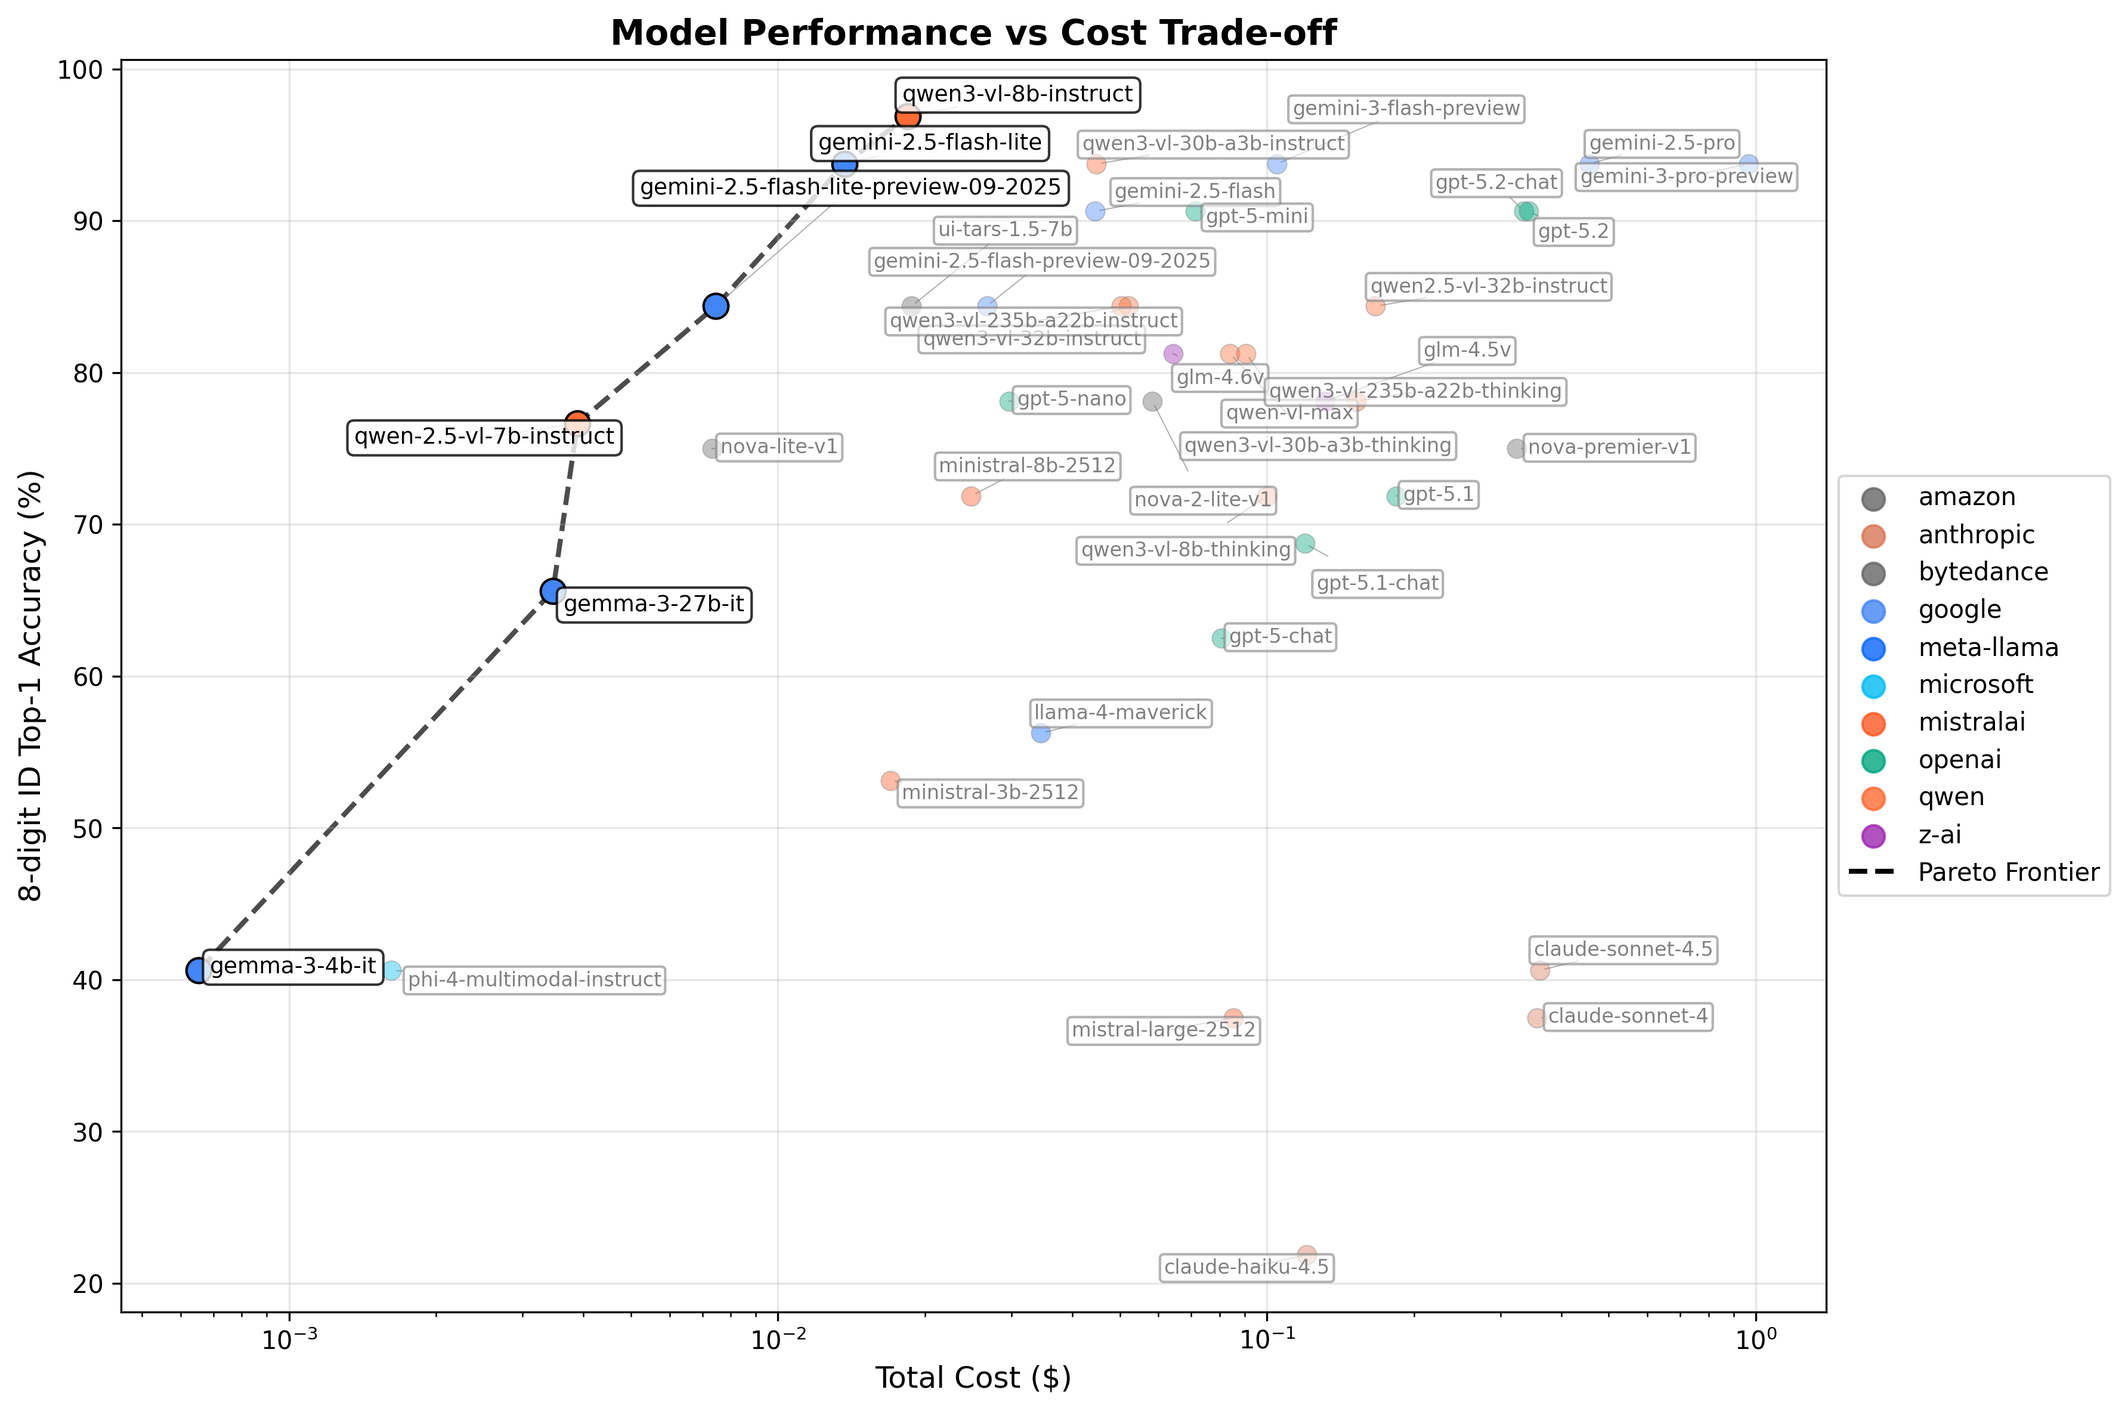
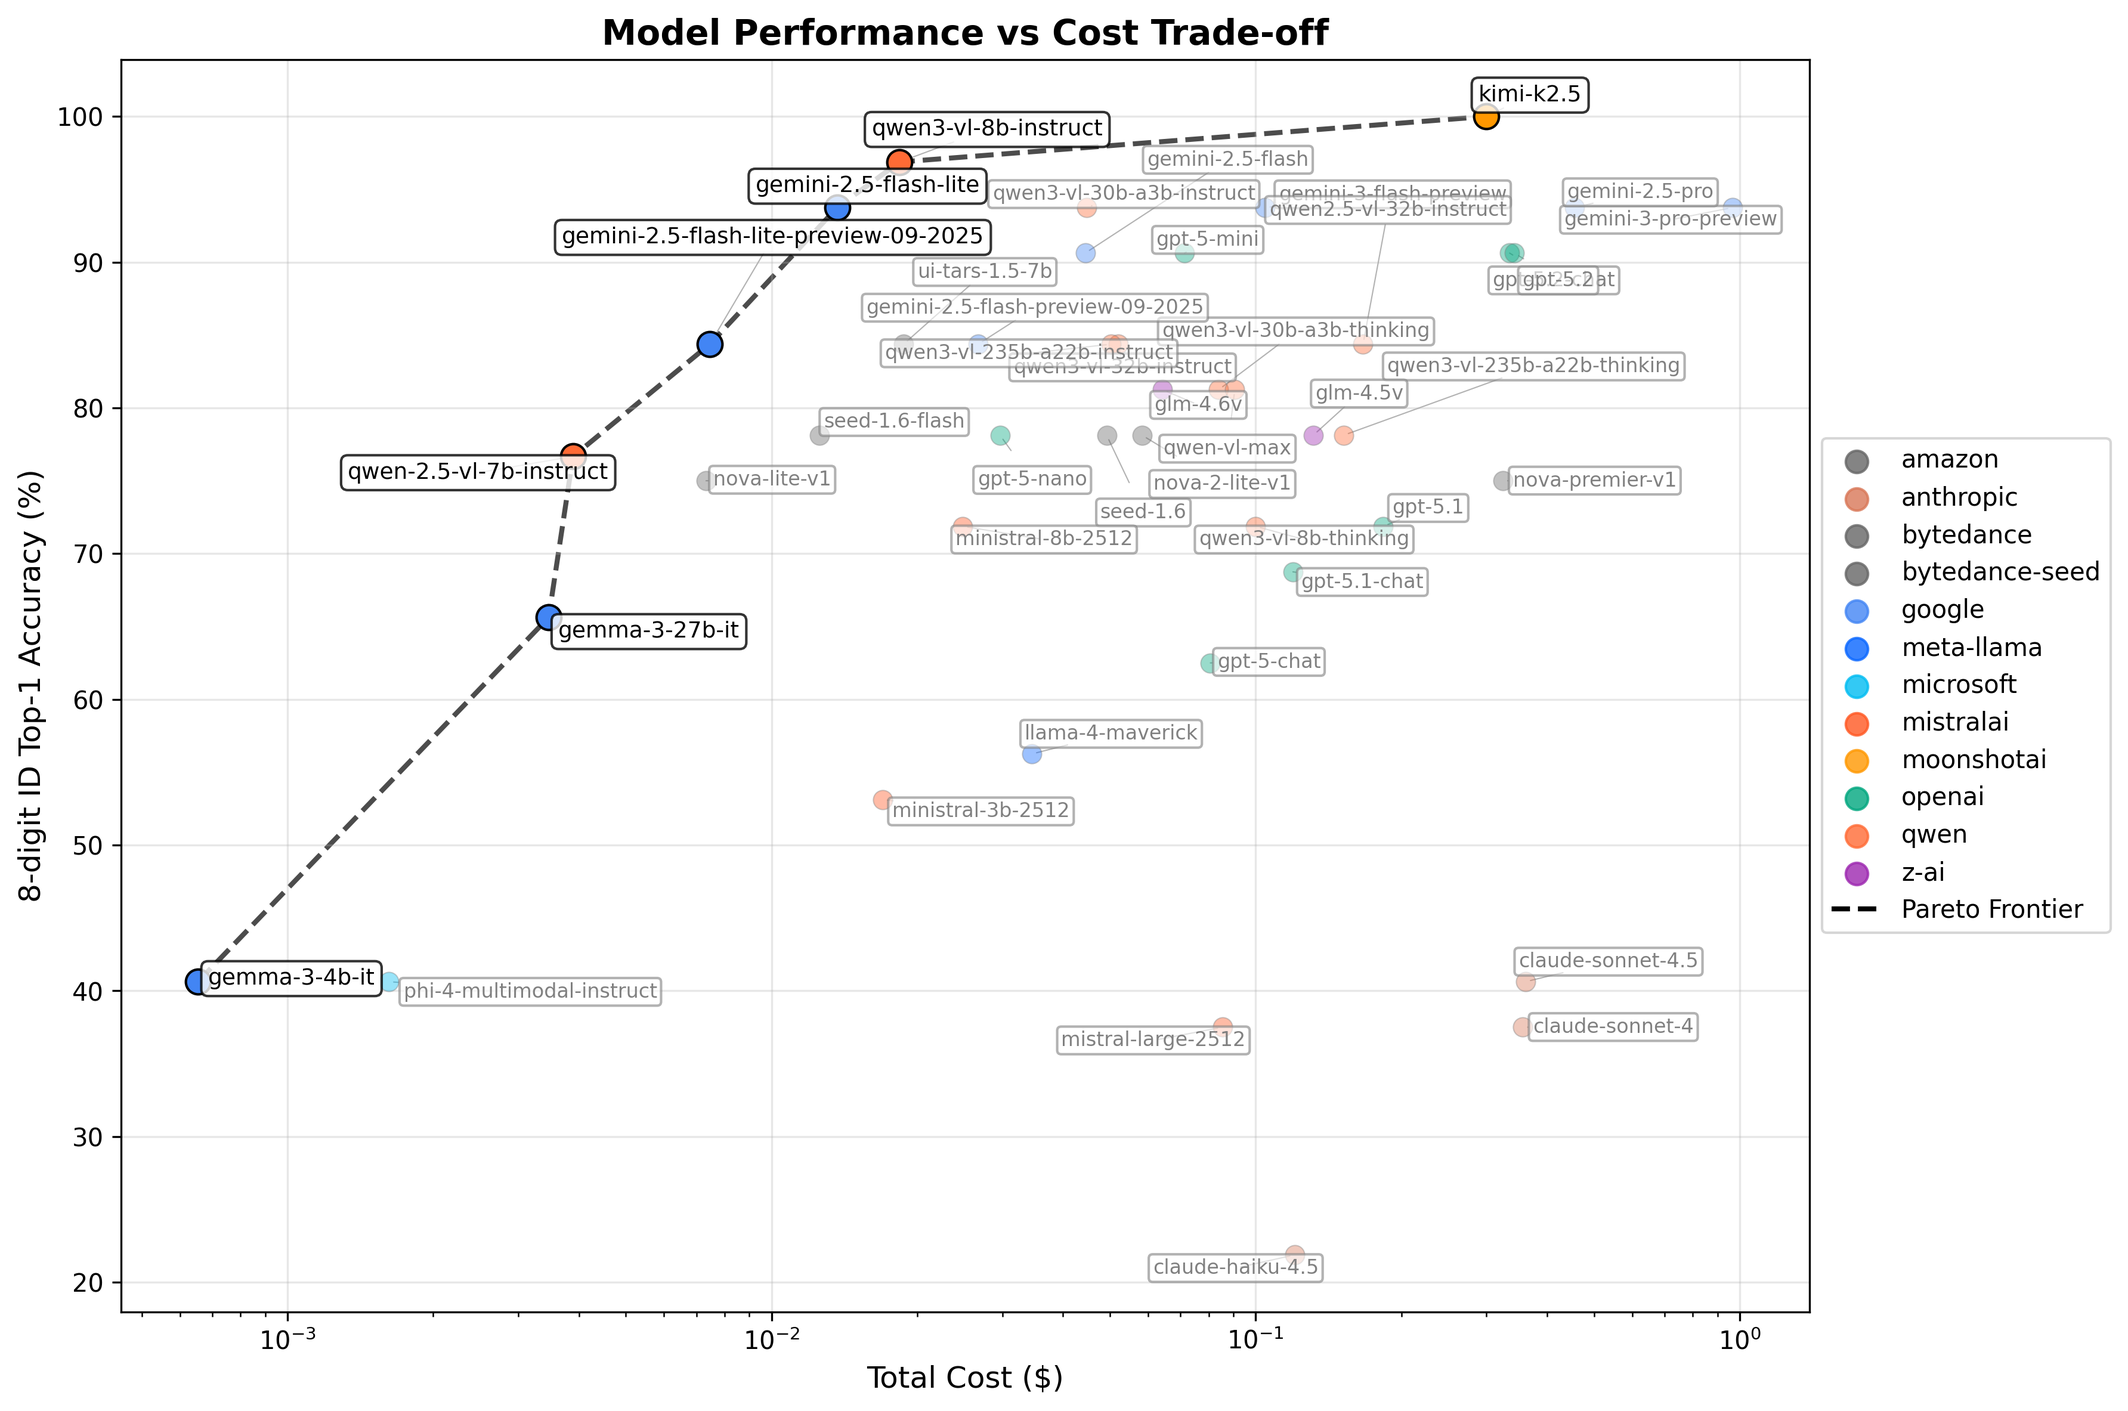
Update benchmark results and model metadata; add new models including moonshotai/kimi-k2.5 and bytedance-seed/seed-1.6, and adjust performance metrics in README and BENCHMARKS.md

diff --git a/BENCHMARKS.md b/BENCHMARKS.md
@@ -34,16 +34,16 @@ All VLM runs use the following consistent configuration:
 ## Complete Results
 
 
-| **Metric** | **OpenCV+CNN** | **google**<br>gemini-3-flash-preview | **google**<br>gemini-3-pro-preview | **google**<br>gemini-2.5-flash-preview-09-2025 | **google**<br>gemini-2.5-flash-lite-preview-09-2025 | **google**<br>gemini-2.5-pro | **google**<br>gemini-2.5-flash-lite | **google**<br>gemma-3-27b-it | **google**<br>gemma-3-4b-it | **google**<br>gemini-2.5-flash | **mistralai**<br>ministral-8b-2512 | **mistralai**<br>ministral-3b-2512 | **mistralai**<br>mistral-large-2512 | **openai**<br>gpt-5.2-chat | **openai**<br>gpt-5.2 | **openai**<br>gpt-5.1-chat | **openai**<br>gpt-5.1 | **openai**<br>gpt-5-chat | **openai**<br>gpt-5-mini | **openai**<br>gpt-5-nano | **amazon**<br>nova-2-lite-v1 | **amazon**<br>nova-premier-v1 | **amazon**<br>nova-lite-v1 | **z-ai**<br>glm-4.6v | **z-ai**<br>glm-4.5v | **nvidia**<br>nemotron-nano-12b-v2-vl:free | **qwen**<br>qwen3-vl-32b-instruct | **qwen**<br>qwen3-vl-8b-thinking | **qwen**<br>qwen3-vl-8b-instruct | **qwen**<br>qwen3-vl-30b-a3b-instruct | **qwen**<br>qwen3-vl-30b-a3b-thinking | **qwen**<br>qwen-vl-max | **qwen**<br>qwen3-vl-235b-a22b-thinking | **qwen**<br>qwen3-vl-235b-a22b-instruct | **qwen**<br>qwen-2.5-vl-7b-instruct | **qwen**<br>qwen2.5-vl-32b-instruct | **anthropic**<br>claude-haiku-4.5 | **anthropic**<br>claude-sonnet-4.5 | **anthropic**<br>claude-sonnet-4 | **microsoft**<br>phi-4-multimodal-instruct | **bytedance**<br>ui-tars-1.5-7b | **meta-llama**<br>llama-4-maverick | **moonshotai**<br>kimi-vl-a3b-thinking:free |
-|:---|:---|:---|:---|:---|:---|:---|:---|:---|:---|:---|:---|:---|:---|:---|:---|:---|:---|:---|:---|:---|:---|:---|:---|:---|:---|:---|:---|:---|:---|:---|:---|:---|:---|:---|:---|:---|:---|:---|:---|:---|:---|:---|:---|
-| LLM model size | N/A | ?? | ?? | ?? | ?? | ?? | ?? | 27B | 4B | ?? | 8B | 3B | 675A41 | ?? | ?? | ?? | ?? | ?? | ?? | ?? | ?? | ?? | ?? | 106B | 106A12 | 12B | 32B | 8B | 8B | 30A3 | 30A3 | ?? | 235A22 | 235A22 | 7B | 32B | ?? | ?? | ?? | 5.6B | 7B | 400A17 | 16A3 |
-| Open-weights | N/A | No | No | No | No | No | No | Yes | Yes | No | Yes | Yes | Yes | No | No | No | No | No | No | No | No | No | No | Yes | Yes | Yes | Yes | Yes | Yes | Yes | Yes | No | Yes | Yes | Yes | Yes | No | No | No | Yes | Yes | Yes | Yes |
-| digit_top1 | 85.16% | 99.22% | 99.22% | 98.05% | 97.66% | 99.22% | 99.22% | 89.45% | 75.00% | 98.83% | 89.84% | 83.59% | 78.12% | 98.44% | 98.44% | 91.80% | 92.58% | 89.84% | 98.83% | 96.48% | 97.27% | 94.53% | 89.06% | 94.92% | 93.36% | 0.00% | 97.27% | 92.19% | **99.61%** | 99.22% | 97.27% | 97.27% | 94.53% | 97.66% | 82.08% | 96.09% | 74.22% | 82.81% | 84.77% | 71.48% | 96.48% | 89.84% | 85.94% |
-| 8-digit id_top1 | ?? | 93.75% | 93.75% | 84.38% | 84.38% | 93.75% | 93.75% | 65.62% | 40.62% | 90.62% | 71.88% | 53.12% | 37.50% | 90.62% | 90.62% | 68.75% | 71.88% | 62.50% | 90.62% | 78.12% | 78.12% | 75.00% | 75.00% | 81.25% | 78.12% | 0.00% | 84.38% | 71.88% | **96.88%** | 93.75% | 81.25% | 81.25% | 78.12% | 84.38% | 76.67% | 84.38% | 21.88% | 40.62% | 37.50% | 40.62% | 84.38% | 56.25% | 50.00% |
-| lastname_top1 | N/A | 96.88% | 96.88% | 96.88% | 96.88% | 96.88% | 93.75% | **100.00%** | 90.62% | 96.88% | 93.75% | 90.62% | 84.38% | 96.88% | 93.75% | **100.00%** | 96.88% | **100.00%** | 96.88% | 90.62% | 96.88% | 96.88% | 96.88% | 96.88% | **100.00%** | 0.00% | 96.88% | 90.62% | 96.88% | 93.75% | 93.75% | 96.88% | **100.00%** | 96.88% | **100.00%** | **100.00%** | 93.75% | 93.75% | **100.00%** | **100.00%** | 96.88% | 93.75% | 96.88% |
-| ID Avg d_Lev | N/A | 0.0625 | 0.0625 | 0.1562 | 0.1875 | 0.0625 | 0.0625 | 0.5000 | 0.9688 | 0.0938 | 0.4062 | 0.5312 | 1.2188 | 0.1250 | 0.1250 | 0.4375 | 0.5938 | 0.5312 | 0.0938 | 0.2188 | 0.2188 | 0.2500 | 0.3750 | 0.1875 | 0.2188 | **0.0000** | 0.2188 | 0.5000 | 0.0312 | 0.0625 | 0.2188 | 0.2188 | 0.4688 | 0.1875 | 1.6333 | 0.1562 | 1.4062 | 1.0000 | 1.0938 | 1.2188 | 0.1562 | 0.5312 | 0.9062 |
-| Lastname Avg d_Lev | N/A | 0.0312 | 0.0312 | 0.0312 | 0.0312 | 0.0312 | 0.0625 | **0.0000** | 0.1250 | 0.0312 | 0.1562 | 0.2188 | 0.4688 | 0.0625 | 0.1875 | **0.0000** | 0.0312 | **0.0000** | 0.0312 | 0.1250 | 0.0938 | 0.0312 | 0.0312 | 0.0312 | **0.0000** | **0.0000** | 0.0312 | 0.3125 | 0.0625 | 0.1875 | 0.0625 | 0.0312 | **0.0000** | 0.0312 | **0.0000** | **0.0000** | 0.2188 | 0.0938 | **0.0000** | **0.0000** | 0.0312 | 0.0938 | 0.0938 |
-| Docs detected | 90.62% (29/32) | **100.00% (32/32)** | **100.00% (32/32)** | **100.00% (32/32)** | **100.00% (32/32)** | **100.00% (32/32)** | **100.00% (32/32)** | **100.00% (32/32)** | **100.00% (32/32)** | **100.00% (32/32)** | **100.00% (32/32)** | **100.00% (32/32)** | **100.00% (32/32)** | **100.00% (32/32)** | **100.00% (32/32)** | **100.00% (32/32)** | **100.00% (32/32)** | **100.00% (32/32)** | **100.00% (32/32)** | **100.00% (32/32)** | **100.00% (32/32)** | **100.00% (32/32)** | **100.00% (32/32)** | **100.00% (32/32)** | **100.00% (32/32)** | 0.00% (0/32) | **100.00% (32/32)** | **100.00% (32/32)** | **100.00% (32/32)** | **100.00% (32/32)** | **100.00% (32/32)** | **100.00% (32/32)** | **100.00% (32/32)** | **100.00% (32/32)** | 93.75% (30/32) | **100.00% (32/32)** | **100.00% (32/32)** | **100.00% (32/32)** | **100.00% (32/32)** | **100.00% (32/32)** | **100.00% (32/32)** | **100.00% (32/32)** | **100.00% (32/32)** |
-| Runtime | **~1 second** | 8 seconds | 26.4 minutes | 4.4 minutes | 4.4 minutes | 8.0 minutes | 2.3 minutes | 2.6 minutes | 2.0 minutes | 2.7 minutes | 14 seconds | 18 seconds | 23 seconds | 53 seconds | 57 seconds | 5.2 minutes | 8.9 minutes | 2.8 minutes | 8.3 minutes | 10.5 minutes | 3.5 minutes | 6.4 minutes | 1.7 minutes | 6.6 minutes | 6.2 minutes | TBD | 2.6 minutes | 14.4 minutes | 4.5 minutes | 2.3 minutes | 6.3 minutes | 4.5 minutes | 13.9 minutes | 4.5 minutes | 6.8 minutes | 2.3 minutes | 5.0 minutes | 5.4 minutes | 3.5 minutes | 2.1 minutes | 1.8 minutes | 2.0 minutes | 9.5 minutes |
-| Cost per image | **$0.00** | $0.001636 | $0.015111 | $0.000418 | $0.000117 | $0.007125 | $0.000214 | $0.000054 | $0.000010 | $0.000695 | $0.000388 | $0.000265 | $0.001335 | $0.005232 | $0.005352 | $0.001866 | $0.002870 | $0.001260 | $0.001115 | $0.000463 | $0.000911 | $0.005061 | $0.000114 | $0.001004 | $0.002057 | **$0.000000** | $0.000814 | $0.001563 | $0.000302 | $0.000700 | $0.001311 | $0.001415 | $0.002376 | $0.000786 | $0.000081 | $0.002605 | $0.001882 | $0.005646 | $0.005567 | $0.000025 | $0.000293 | $0.000539 | **$0.000000** |
-| Total cost | **$0.00** | $0.1047 | $0.9671 | $0.0267 | $0.0075 | $0.4560 | $0.0137 | $0.0035 | $0.0007 | $0.0445 | $0.0248 | $0.0170 | $0.0854 | $0.3348 | $0.3426 | $0.1195 | $0.1837 | $0.0807 | $0.0714 | $0.0297 | $0.0583 | $0.3239 | $0.0073 | $0.0642 | $0.1316 | **$0.0000** | $0.0521 | $0.1000 | $0.0184 | $0.0448 | $0.0839 | $0.0906 | $0.1521 | $0.0503 | $0.0039 | $0.1667 | $0.1205 | $0.3614 | $0.3563 | $0.0016 | $0.0187 | $0.0345 | **$0.0000** |
+| **Metric** | **OpenCV+CNN** | **moonshotai**<br>kimi-k2.5 | **moonshotai**<br>kimi-vl-a3b-thinking:free | **bytedance-seed**<br>seed-1.6 | **bytedance-seed**<br>seed-1.6-flash | **google**<br>gemini-3-flash-preview | **google**<br>gemini-3-pro-preview | **google**<br>gemini-2.5-flash-preview-09-2025 | **google**<br>gemini-2.5-flash-lite-preview-09-2025 | **google**<br>gemini-2.5-pro | **google**<br>gemini-2.5-flash-lite | **google**<br>gemma-3-27b-it | **google**<br>gemma-3-4b-it | **google**<br>gemini-2.5-flash | **mistralai**<br>ministral-8b-2512 | **mistralai**<br>ministral-3b-2512 | **mistralai**<br>mistral-large-2512 | **openai**<br>gpt-5.2-chat | **openai**<br>gpt-5.2 | **openai**<br>gpt-5.1-chat | **openai**<br>gpt-5.1 | **openai**<br>gpt-5-chat | **openai**<br>gpt-5-mini | **openai**<br>gpt-5-nano | **amazon**<br>nova-2-lite-v1 | **amazon**<br>nova-premier-v1 | **amazon**<br>nova-lite-v1 | **z-ai**<br>glm-4.6v | **z-ai**<br>glm-4.5v | **nvidia**<br>nemotron-nano-12b-v2-vl:free | **qwen**<br>qwen3-vl-32b-instruct | **qwen**<br>qwen3-vl-8b-thinking | **qwen**<br>qwen3-vl-8b-instruct | **qwen**<br>qwen3-vl-30b-a3b-instruct | **qwen**<br>qwen3-vl-30b-a3b-thinking | **qwen**<br>qwen-vl-max | **qwen**<br>qwen3-vl-235b-a22b-thinking | **qwen**<br>qwen3-vl-235b-a22b-instruct | **qwen**<br>qwen-2.5-vl-7b-instruct | **qwen**<br>qwen2.5-vl-32b-instruct | **anthropic**<br>claude-haiku-4.5 | **anthropic**<br>claude-sonnet-4.5 | **anthropic**<br>claude-sonnet-4 | **microsoft**<br>phi-4-multimodal-instruct | **bytedance**<br>ui-tars-1.5-7b | **meta-llama**<br>llama-4-maverick |
+|:---|:---|:---|:---|:---|:---|:---|:---|:---|:---|:---|:---|:---|:---|:---|:---|:---|:---|:---|:---|:---|:---|:---|:---|:---|:---|:---|:---|:---|:---|:---|:---|:---|:---|:---|:---|:---|:---|:---|:---|:---|:---|:---|:---|:---|:---|:---|
+| LLM model size | N/A | 1000A32 | 16A3 | ?? | ?? | ?? | ?? | ?? | ?? | ?? | ?? | 27B | 4B | ?? | 8B | 3B | 675A41 | ?? | ?? | ?? | ?? | ?? | ?? | ?? | ?? | ?? | ?? | 106B | 106A12 | 12B | 32B | 8B | 8B | 30A3 | 30A3 | ?? | 235A22 | 235A22 | 7B | 32B | ?? | ?? | ?? | 5.6B | 7B | 400A17 |
+| Open-weights | N/A | Yes | Yes | No | No | No | No | No | No | No | No | Yes | Yes | No | Yes | Yes | Yes | No | No | No | No | No | No | No | No | No | No | Yes | Yes | Yes | Yes | Yes | Yes | Yes | Yes | No | Yes | Yes | Yes | Yes | No | No | No | Yes | Yes | Yes |
+| digit_top1 | 85.16% | **100.00%** | 85.94% | 96.48% | 95.70% | 99.22% | 99.22% | 98.05% | 97.66% | 99.22% | 99.22% | 89.45% | 75.00% | 98.83% | 89.84% | 83.59% | 78.12% | 98.44% | 98.44% | 91.80% | 92.58% | 89.84% | 98.83% | 96.48% | 97.27% | 94.53% | 89.06% | 94.92% | 93.36% | 0.00% | 97.27% | 92.19% | 99.61% | 99.22% | 97.27% | 97.27% | 94.53% | 97.66% | 82.08% | 96.09% | 74.22% | 82.81% | 84.77% | 71.48% | 96.48% | 89.84% |
+| 8-digit id_top1 | ?? | **100.00%** | 50.00% | 78.12% | 78.12% | 93.75% | 93.75% | 84.38% | 84.38% | 93.75% | 93.75% | 65.62% | 40.62% | 90.62% | 71.88% | 53.12% | 37.50% | 90.62% | 90.62% | 68.75% | 71.88% | 62.50% | 90.62% | 78.12% | 78.12% | 75.00% | 75.00% | 81.25% | 78.12% | 0.00% | 84.38% | 71.88% | 96.88% | 93.75% | 81.25% | 81.25% | 78.12% | 84.38% | 76.67% | 84.38% | 21.88% | 40.62% | 37.50% | 40.62% | 84.38% | 56.25% |
+| lastname_top1 | N/A | 96.88% | 96.88% | 93.75% | 96.88% | 96.88% | 96.88% | 96.88% | 96.88% | 96.88% | 93.75% | **100.00%** | 90.62% | 96.88% | 93.75% | 90.62% | 84.38% | 96.88% | 93.75% | **100.00%** | 96.88% | **100.00%** | 96.88% | 90.62% | 96.88% | 96.88% | 96.88% | 96.88% | **100.00%** | 0.00% | 96.88% | 90.62% | 96.88% | 93.75% | 93.75% | 96.88% | **100.00%** | 96.88% | **100.00%** | **100.00%** | 93.75% | 93.75% | **100.00%** | **100.00%** | 96.88% | 93.75% |
+| ID Avg d_Lev | N/A | **0.0000** | 0.9062 | 0.2812 | 0.2812 | 0.0625 | 0.0625 | 0.1562 | 0.1875 | 0.0625 | 0.0625 | 0.5000 | 0.9688 | 0.0938 | 0.4062 | 0.5312 | 1.2188 | 0.1250 | 0.1250 | 0.4375 | 0.5938 | 0.5312 | 0.0938 | 0.2188 | 0.2188 | 0.2500 | 0.3750 | 0.1875 | 0.2188 | **0.0000** | 0.2188 | 0.5000 | 0.0312 | 0.0625 | 0.2188 | 0.2188 | 0.4688 | 0.1875 | 1.6333 | 0.1562 | 1.4062 | 1.0000 | 1.0938 | 1.2188 | 0.1562 | 0.5312 |
+| Lastname Avg d_Lev | N/A | 0.0312 | 0.0938 | 0.1875 | 0.0312 | 0.0312 | 0.0312 | 0.0312 | 0.0312 | 0.0312 | 0.0625 | **0.0000** | 0.1250 | 0.0312 | 0.1562 | 0.2188 | 0.4688 | 0.0625 | 0.1875 | **0.0000** | 0.0312 | **0.0000** | 0.0312 | 0.1250 | 0.0938 | 0.0312 | 0.0312 | 0.0312 | **0.0000** | **0.0000** | 0.0312 | 0.3125 | 0.0625 | 0.1875 | 0.0625 | 0.0312 | **0.0000** | 0.0312 | **0.0000** | **0.0000** | 0.2188 | 0.0938 | **0.0000** | **0.0000** | 0.0312 | 0.0938 |
+| Docs detected | 90.62% (29/32) | **100.00% (32/32)** | **100.00% (32/32)** | **100.00% (32/32)** | **100.00% (32/32)** | **100.00% (32/32)** | **100.00% (32/32)** | **100.00% (32/32)** | **100.00% (32/32)** | **100.00% (32/32)** | **100.00% (32/32)** | **100.00% (32/32)** | **100.00% (32/32)** | **100.00% (32/32)** | **100.00% (32/32)** | **100.00% (32/32)** | **100.00% (32/32)** | **100.00% (32/32)** | **100.00% (32/32)** | **100.00% (32/32)** | **100.00% (32/32)** | **100.00% (32/32)** | **100.00% (32/32)** | **100.00% (32/32)** | **100.00% (32/32)** | **100.00% (32/32)** | **100.00% (32/32)** | **100.00% (32/32)** | **100.00% (32/32)** | 0.00% (0/32) | **100.00% (32/32)** | **100.00% (32/32)** | **100.00% (32/32)** | **100.00% (32/32)** | **100.00% (32/32)** | **100.00% (32/32)** | **100.00% (32/32)** | **100.00% (32/32)** | 93.75% (30/32) | **100.00% (32/32)** | **100.00% (32/32)** | **100.00% (32/32)** | **100.00% (32/32)** | **100.00% (32/32)** | **100.00% (32/32)** | **100.00% (32/32)** |
+| Runtime | **~1 second** | 1.6 minutes | 9.5 minutes | 57 seconds | 44 seconds | 8 seconds | 26.4 minutes | 4.4 minutes | 4.4 minutes | 8.0 minutes | 2.3 minutes | 2.6 minutes | 2.0 minutes | 2.7 minutes | 14 seconds | 18 seconds | 23 seconds | 53 seconds | 57 seconds | 5.2 minutes | 8.9 minutes | 2.8 minutes | 8.3 minutes | 10.5 minutes | 3.5 minutes | 6.4 minutes | 1.7 minutes | 6.6 minutes | 6.2 minutes | TBD | 2.6 minutes | 14.4 minutes | 4.5 minutes | 2.3 minutes | 6.3 minutes | 4.5 minutes | 13.9 minutes | 4.5 minutes | 6.8 minutes | 2.3 minutes | 5.0 minutes | 5.4 minutes | 3.5 minutes | 2.1 minutes | 1.8 minutes | 2.0 minutes |
+| Cost per image | **$0.00** | $0.004679 | **$0.000000** | $0.000770 | $0.000196 | $0.001636 | $0.015111 | $0.000418 | $0.000117 | $0.007125 | $0.000214 | $0.000054 | $0.000010 | $0.000695 | $0.000388 | $0.000265 | $0.001335 | $0.005232 | $0.005352 | $0.001866 | $0.002870 | $0.001260 | $0.001115 | $0.000463 | $0.000911 | $0.005061 | $0.000114 | $0.001004 | $0.002057 | **$0.000000** | $0.000814 | $0.001563 | $0.000302 | $0.000700 | $0.001311 | $0.001415 | $0.002376 | $0.000786 | $0.000081 | $0.002605 | $0.001882 | $0.005646 | $0.005567 | $0.000025 | $0.000293 | $0.000539 |
+| Total cost | **$0.00** | $0.2995 | **$0.0000** | $0.0492 | $0.0126 | $0.1047 | $0.9671 | $0.0267 | $0.0075 | $0.4560 | $0.0137 | $0.0035 | $0.0007 | $0.0445 | $0.0248 | $0.0170 | $0.0854 | $0.3348 | $0.3426 | $0.1195 | $0.1837 | $0.0807 | $0.0714 | $0.0297 | $0.0583 | $0.3239 | $0.0073 | $0.0642 | $0.1316 | **$0.0000** | $0.0521 | $0.1000 | $0.0184 | $0.0448 | $0.0839 | $0.0906 | $0.1521 | $0.0503 | $0.0039 | $0.1667 | $0.1205 | $0.3614 | $0.3563 | $0.0016 | $0.0187 | $0.0345 |

diff --git a/README.md b/README.md
@@ -107,19 +107,19 @@ The table below shows the top performing models by category. See [BENCHMARKS.md]
 
 <!-- BENCHMARK_TABLE_START -->
 
-| **Metric** | **OpenCV+CNN** | **nvidia**<br>nemotron-nano-12b-v2-vl:free | **qwen**<br>qwen3-vl-8b-instruct | **google**<br>gemini-3-flash-preview | **google**<br>gemini-3-pro-preview |
+| **Metric** | **OpenCV+CNN** | **moonshotai**<br>kimi-k2.5 | **nvidia**<br>nemotron-nano-12b-v2-vl:free | **google**<br>gemini-3-flash-preview | **google**<br>gemini-3-pro-preview |
 |:---|:---|:---|:---|:---|:---|
-| LLM model size | N/A | 12B | 8B | ?? | ?? |
+| LLM model size | N/A | 1000A32 | 12B | ?? | ?? |
 | Open-weights | N/A | Yes | Yes | No | No |
-| digit_top1 | 85.16% | 0.00% | **99.61%** | 99.22% | 99.22% |
-| 8-digit id_top1 | ?? | 0.00% | **96.88%** | 93.75% | 93.75% |
-| lastname_top1 | N/A | 0.00% | **96.88%** | **96.88%** | **96.88%** |
-| ID Avg d_Lev | N/A | **0.0000** | 0.0312 | 0.0625 | 0.0625 |
-| Lastname Avg d_Lev | N/A | **0.0000** | 0.0625 | 0.0312 | 0.0312 |
-| Docs detected | 90.62% (29/32) | 0.00% (0/32) | **100.00% (32/32)** | **100.00% (32/32)** | **100.00% (32/32)** |
-| Runtime | **~1 second** | TBD | 4.5 minutes | 8 seconds | 26.4 minutes |
-| Cost per image | **$0.00** | **$0.000000** | $0.000302 | $0.001636 | $0.015111 |
-| Total cost | **$0.00** | **$0.0000** | $0.0184 | $0.1047 | $0.9671 |
+| digit_top1 | 85.16% | **100.00%** | 0.00% | 99.22% | 99.22% |
+| 8-digit id_top1 | ?? | **100.00%** | 0.00% | 93.75% | 93.75% |
+| lastname_top1 | N/A | **96.88%** | 0.00% | **96.88%** | **96.88%** |
+| ID Avg d_Lev | N/A | **0.0000** | **0.0000** | 0.0625 | 0.0625 |
+| Lastname Avg d_Lev | N/A | 0.0312 | **0.0000** | 0.0312 | 0.0312 |
+| Docs detected | 90.62% (29/32) | **100.00% (32/32)** | 0.00% (0/32) | **100.00% (32/32)** | **100.00% (32/32)** |
+| Runtime | **~1 second** | 1.6 minutes | TBD | 8 seconds | 26.4 minutes |
+| Cost per image | **$0.00** | $0.004679 | **$0.000000** | $0.001636 | $0.015111 |
+| Total cost | **$0.00** | $0.2995 | **$0.0000** | $0.1047 | $0.9671 |
 
 ### Performance vs Cost Trade-off
 
